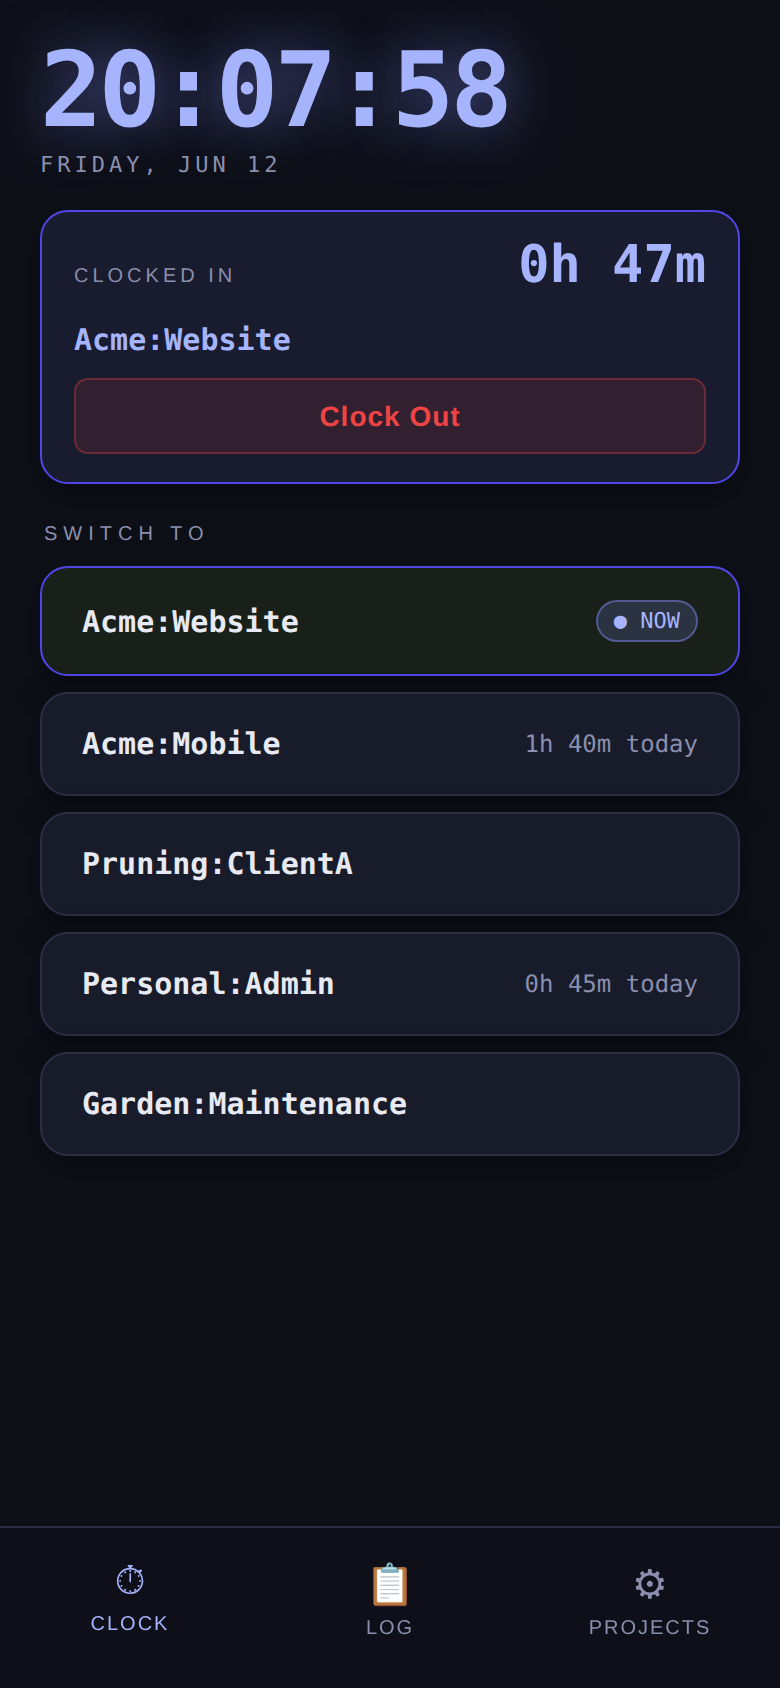
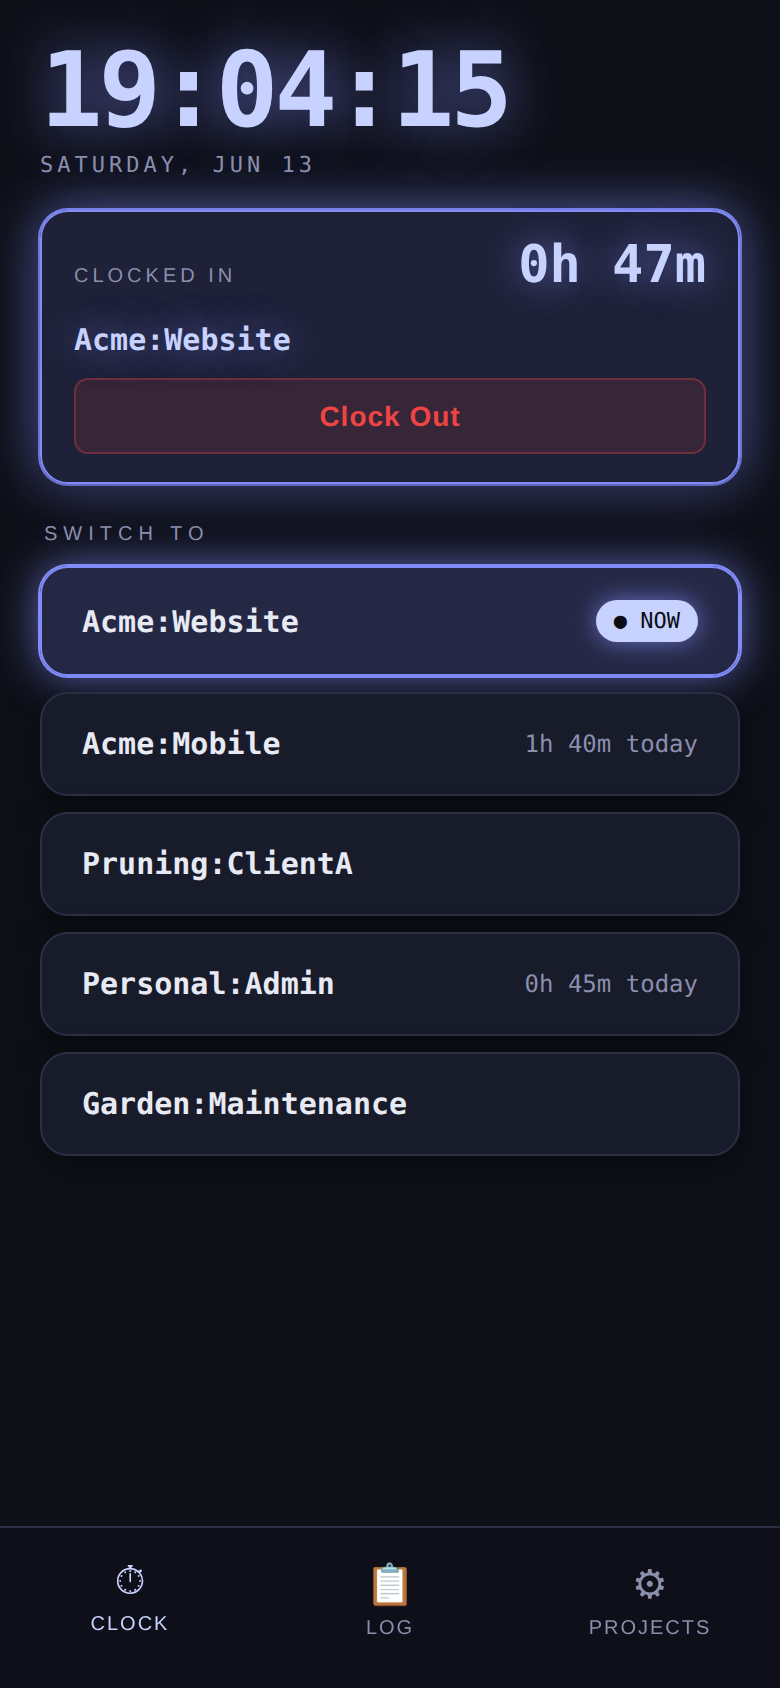
Brighten indigo-dark active-job highlight with edge glow
Add shared indigo treatment rules for the active states (running-session
card, current project row, NOW badge, running time) driven by new
--accent-edge / --current-bg / --badge-ink vars. Dark gets a vivid
glowing indigo edge ring and brighter periwinkle accent; light stays
calm with a subtle ring and crisper NOW pill.

Changed region(s): [[0.0, 0.0308, 0.9846, 0.4313], [0.0923, 0.1848, 0.3692, 0.2156], [0.1538, 0.9242, 0.1846, 0.955]]

diff --git a/src/index.css b/src/index.css
@@ -233,19 +233,38 @@ html, body { background: var(--bg); }
 [data-theme^="indigo-"] .edit-field,
 [data-theme^="indigo-"] .add-input { border-radius:14px; box-shadow:0 6px 18px var(--shadow-col); }
 [data-theme^="indigo-"] .time-display.clocked-in { color:var(--lime); text-shadow:0 0 26px var(--accent-glow); }
+/* Active-job highlight: brighter fill + glowing edge ring on the running
+   session card, the current project row, and the NOW badge. */
+[data-theme^="indigo-"] .status-bar.active {
+  border-color: var(--accent-edge);
+  box-shadow: 0 6px 18px var(--shadow-col), 0 0 0 1px var(--accent-edge), 0 0 26px var(--accent-glow);
+}
+[data-theme^="indigo-"] .project-btn.current {
+  background: var(--current-bg);
+  border-color: var(--accent-edge);
+  box-shadow: 0 0 0 1px var(--accent-edge), 0 0 22px var(--accent-glow);
+}
+[data-theme^="indigo-"] .project-badge {
+  background: var(--lime); color: var(--badge-ink);
+  border-color: transparent; box-shadow: 0 0 12px var(--accent-glow);
+}
+[data-theme^="indigo-"] .running-time,
+[data-theme^="indigo-"] .status-account { text-shadow: 0 0 18px var(--accent-glow); }
 [data-theme="indigo-dark"] {
   --bg:#0e1018; --surface:#181b29; --surface2:#1f2336; --border:#2a2f45;
   --text:#e7e9f3; --muted:#8b8fae; --times-color:#5b6086; --nav-bg:rgba(14,16,24,0.9);
-  --lime:#a5b4fc; --lime-dim:#4f46e5; --lime-bg:rgba(129,140,248,0.1);
+  --lime:#c7d2fe; --lime-dim:#6366f1; --lime-bg:rgba(129,140,248,0.14);
   --lime-badge-bg:rgba(129,140,248,0.18); --lime-badge-border:rgba(129,140,248,0.45);
-  --amber:#f472b6; --shadow-col:rgba(0,0,0,0.35); --accent-glow:rgba(129,140,248,0.55);
+  --amber:#f472b6; --shadow-col:rgba(0,0,0,0.35); --accent-glow:rgba(129,140,248,0.7);
+  --accent-edge:#818cf8; --current-bg:rgba(129,140,248,0.2); --badge-ink:#0b0d16;
 }
 [data-theme="indigo-light"] {
   --bg:#eef0f7; --surface:#ffffff; --surface2:#f4f5fb; --border:#dfe2ee;
   --text:#23263a; --muted:#737896; --times-color:#aab0c8; --nav-bg:rgba(238,240,247,0.9);
   --lime:#4f46e5; --lime-dim:#a5b4fc; --lime-bg:rgba(79,70,229,0.07);
   --lime-badge-bg:rgba(79,70,229,0.12); --lime-badge-border:rgba(79,70,229,0.3);
-  --amber:#db2777; --shadow-col:rgba(80,90,140,0.18); --accent-glow:rgba(79,70,229,0.25);
+  --amber:#db2777; --shadow-col:rgba(80,90,140,0.18); --accent-glow:rgba(79,70,229,0.22);
+  --accent-edge:#6366f1; --current-bg:rgba(79,70,229,0.1); --badge-ink:#ffffff;
 }
 
 /* ─────────────────────────  AURORA · glass  ─────────────────────────────── */
